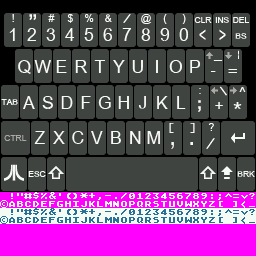
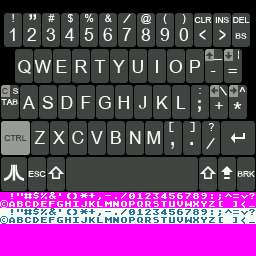
More cleanup on the rebrand

diff --git a/arm9/source/a8ds.c b/arm9/source/a8ds.c
@@ -38,6 +38,7 @@
 #include "bgFileSel.h"
 #include "bgInfo.h"
 #include "bgKeyboard.h"
+#include "kbd_400.h"
 #include "altirra_os.h"
 #include "altirra_basic.h"
 
@@ -962,7 +963,7 @@ const struct options_t Option_Table[] =
     {"DISK SPEEDUP",{"OFF",         "ON"},                              &ESC_enable_sio_patch,  2,   "NORMALLY ON IS    ",   "DESIRED TO SPEED  ",  "UP FLOPPY DISK    ",  "ACCESS. OFF=SLOW  "},
     {"KEY CLICK",   {"ON",          "OFF"},                             &key_click_disable,     2,   "NORMALLY ON       ",   "CAN BE USED TO    ",  "SILENCE KEY CLICKS",  "FOR KEYBOARD USE  "},
     {"EMULATOR TXT",{"OFF",         "ON"},                              &bShowEmuText,          2,   "NORMALLY ON       ",   "CAN BE USED TO    ",  "DISABLE FILENAME  ",  "INFO ON MAIN SCRN "},
-    //{"KEYBOARD",    {"NORMAL",      "SIMPLIFIED"},                      &keyboard_type,         2,   "NORMAL KEYBOARD   ",   "HAS MOST KEYS AND ",  "SIMPLIFIED IS MORE",  "STREAMLINED USE   "},
+    {"KEYBOARD",    {"800XL STYLE", "400 STYLE", "130XE STYLE"},        &keyboard_type,         3,   "CHOOSE THE STYLE  ",   "THAT BEST SUITS   ",  "YOUR TASTES.      ",  "                  "},
 
     {NULL,          {"",            ""},                                NULL,                   2,   "HELP1             ",   "HELP2             ",  "HELP3             ",  "HELP4             "},
 };
@@ -1472,19 +1473,25 @@ unsigned int dsWaitForRom(void)
 // ----------------------------------------------------------------------------------
 static u16 shift=0;
 static u16 ctrl=0;
-static u16 sav1 = 0;
-static u16 sav2 = 0;
 void dsShowKeyboard(void)
 {
-      decompress(bgKeyboardTiles, bgGetGfxPtr(bg0b), LZ77Vram);
-      decompress(bgKeyboardMap, (void*) bgGetMapPtr(bg0b), LZ77Vram);
-      dmaCopy((void *) bgKeyboardPal,(u16*) BG_PALETTE_SUB,256*2);
-      unsigned short dmaVal = *(bgGetMapPtr(bg1b) +31*32);
-      dmaFillWords(dmaVal | (dmaVal<<16),(void*) bgGetMapPtr(bg1b),32*24*2);
+      if (keyboard_type == 1) // 400 style
+      {
+          decompress(kbd_400Tiles, bgGetGfxPtr(bg0b), LZ77Vram);
+          decompress(kbd_400Map, (void*) bgGetMapPtr(bg0b), LZ77Vram);
+          dmaCopy((void *) kbd_400Pal,(u16*) BG_PALETTE_SUB,256*2);
+          unsigned short dmaVal = *(bgGetMapPtr(bg1b) +31*32);
+          dmaFillWords(dmaVal | (dmaVal<<16),(void*) bgGetMapPtr(bg1b),32*24*2);
+      }
+      else
+      {
+          decompress(bgKeyboardTiles, bgGetGfxPtr(bg0b), LZ77Vram);
+          decompress(bgKeyboardMap, (void*) bgGetMapPtr(bg0b), LZ77Vram);
+          dmaCopy((void *) bgKeyboardPal,(u16*) BG_PALETTE_SUB,256*2);
+          unsigned short dmaVal = *(bgGetMapPtr(bg1b) +31*32);
+          dmaFillWords(dmaVal | (dmaVal<<16),(void*) bgGetMapPtr(bg1b),32*24*2);
+      }    
       swiWaitForVBlank();
-      sav1 = *(bgGetMapPtr(bg1b) + 680);
-      sav2 = *(bgGetMapPtr(bg1b) + 683);
-    
       dsShowRomInfo();
 }
 
@@ -1702,7 +1709,7 @@ int dsHandleKeyboard(int Tx, int Ty)
         else if (Tx < 200) keyPress = AKEY_SPACE;
         else if (Tx < 218) keyPress = AKEY_SHFT;
         else if (Tx < 237) keyPress = AKEY_CAPSTOGGLE;
-        else if (Tx < 255) keyPress = AKEY_DELETE_CHAR;
+        else if (Tx < 255) keyPress = AKEY_BREAK;
     }
     
 #if 0    
